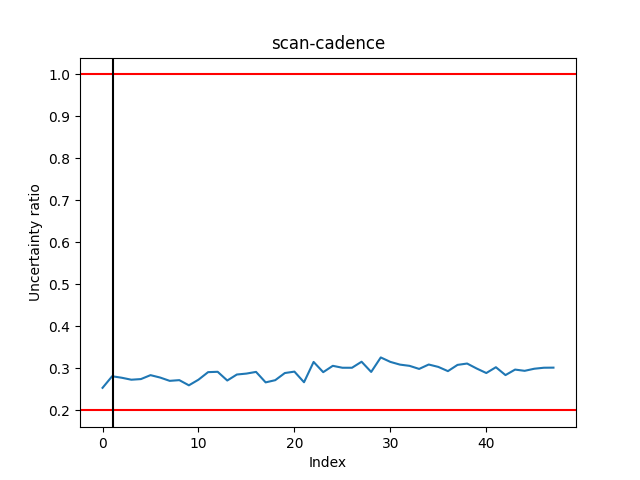
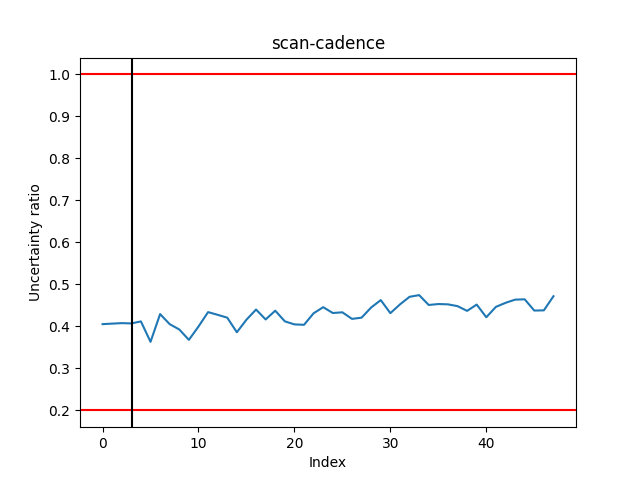
DOF scan complete

diff --git a/code/thresholds/vary-num-elements.py b/code/thresholds/vary-num-elements.py
@@ -3,30 +3,42 @@ import numpy as np
 import matplotlib.pyplot as plt
 
 PULL = False
-DIRECTORY = "fe"
+DIRECTORY = "fe/dof-scan"
+DOFS = [9, 7, 5, 3, 2]
+NUM_TRIALS = 5
+SCAN_NAME = "cprobe-s-rho"
 
 if PULL:
-    for i in range(9):
-        os.system(f"scp jdinsmore@txe1-login.mit.edu:asteroid-tidal-torque/code/thresholds/fe/probe-s-rho-{i}.npy {DIRECTORY}/")
+    for dof in DOFS:
+        for trial_num in range(NUM_TRIALS):
+            os.system(f"scp jdinsmore@txe1-login.mit.edu:asteroid-tidal-torque/code/thresholds/fe/{SCAN_NAME}-{dof}-{trial_num}.npy {DIRECTORY}/")
 
 plt.figure()
-plt.title("Rotational period uncertainty")
-plt.xlabel("sigma rho")
+plt.xlabel("Observational precision")
 plt.ylabel("Uncertainty / local density")
 
-for i in range(9):
-    fname = f"probe-s-rho-{i}.npy"
-    if not os.path.exists(DIRECTORY + "/" + fname):
-        continue
-    if fname.endswith(".npy"):
+for dof_index, dof in enumerate(DOFS):
+    all_uncs = []
+    for trial_num in range(NUM_TRIALS):
+        fname = f"{SCAN_NAME}-{dof}-{trial_num}.npy"
+        if not os.path.exists(DIRECTORY + "/" + fname):
+            raise Exception(f"Directory {DIRECTORY + '/' + fname} did not exist")
+
         with open(DIRECTORY + "/" + fname, 'rb') as f:
-            uncs = np.load(f)
-        if len(fname[:-4]) < 8:
-            print(fname[:-4], end='\t\t')
-        else:
-            print(fname[:-4], end='\t')
-        plt.scatter(np.arange(len(uncs)), uncs, label=f"{9-i} DOF")
-        plt.plot(uncs)
+            these_uncs = np.load(f)
+            all_uncs.append(these_uncs)
+    
+    all_uncs = np.array(all_uncs)
+    if len(fname[:-4]) < 8:
+        print(fname[:-4], end='\t\t')
+    else:
+        print(fname[:-4], end='\t')
+    xs = np.arange(len(all_uncs[0]))
+    plt.scatter(xs, np.mean(all_uncs, axis=0), label=f"{dof} DOF", color=f"C{dof_index}", s=16)
+    plt.plot(xs, np.mean(all_uncs, axis=0), color=f"C{dof_index}")
+    for specific_uncs in all_uncs:
+        plt.scatter(xs, specific_uncs, color=f"C{dof_index}", alpha = 0.3, s=8)
+
 plt.legend()
 plt.savefig("vary-num.png")
 plt.show()

diff --git a/code/thresholds/thresholds.py b/code/thresholds/thresholds.py
@@ -7,10 +7,10 @@ INCREASING = {
     "observation-gap": True,
     "probe-s-rho": True,
     "probe-s-theta": True,
-    #"scan-am": False,
-    #"scan-cadence": True,
-    #"scan-perigee": True,
-    #"scan-period": False,
+    "scan-am": False,
+    "scan-cadence": True,
+    "scan-perigee": True,
+    "scan-period": False,
     "scan-vex": True,
 }
 PULL = True

diff --git a/code/thresholds/fe/readme.md b/code/thresholds/fe/readme.md
@@ -25,3 +25,7 @@ A couple of the scans with full DOF completed and showed good sensitivity.
 I fixed some issues I was having with dof-scan by making it write to new files. Instead of being named `ast-*`, they're named `cast-*` (the `c` stands for coarse). Similarly, the results are stored in an npy file beginning with a c. That's three lines of code. I must change them back if I unify dof-scan and dof-scan-precise eventually.
 
 THIS ALSO MEANS THAT FOR A FEW MINUTES, DOF-SCAN AND DOF-SCAN-PRECISE WERE WRITING TO THE SAME H5 FILE. THIS COULD CORRUPT MY DATA.
+
+## June 13
+
+DOF scan completed. It looks great. 2 DOF failed because it's so few.
